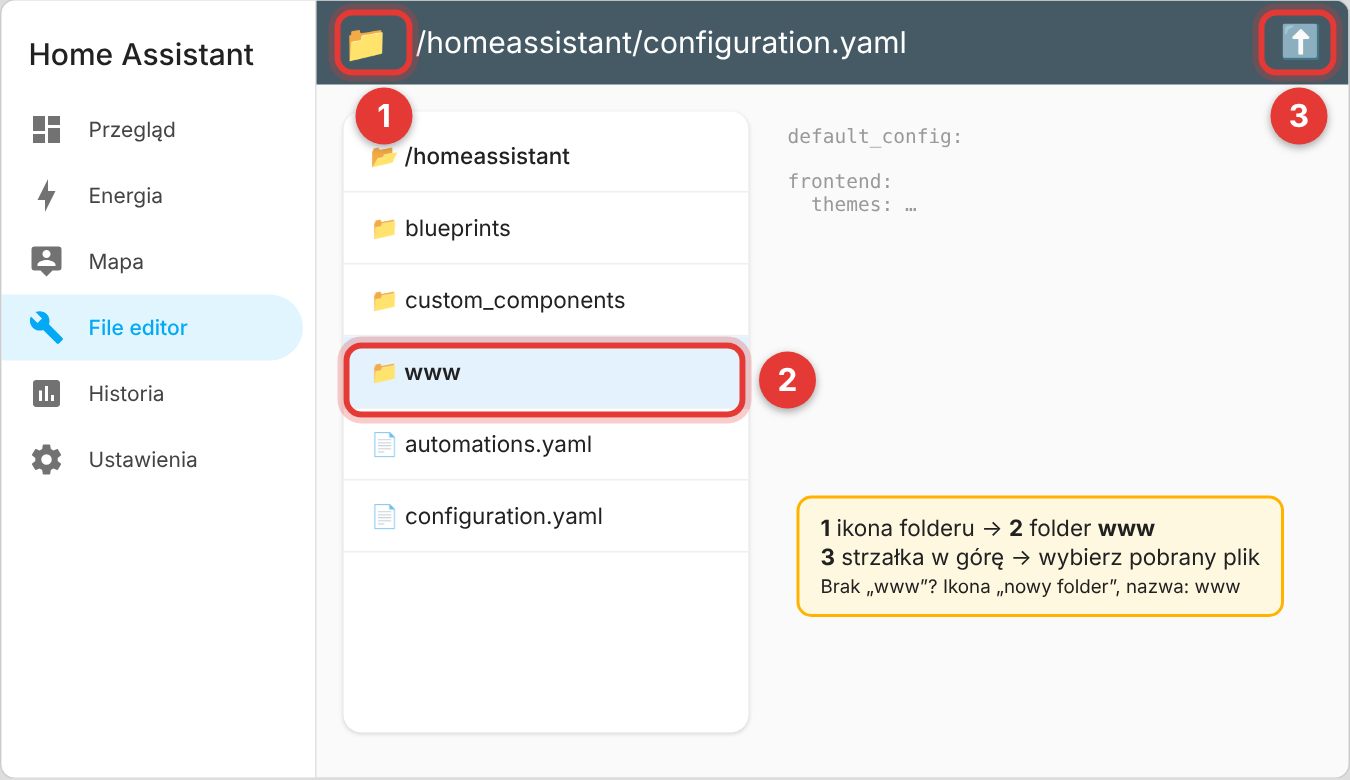
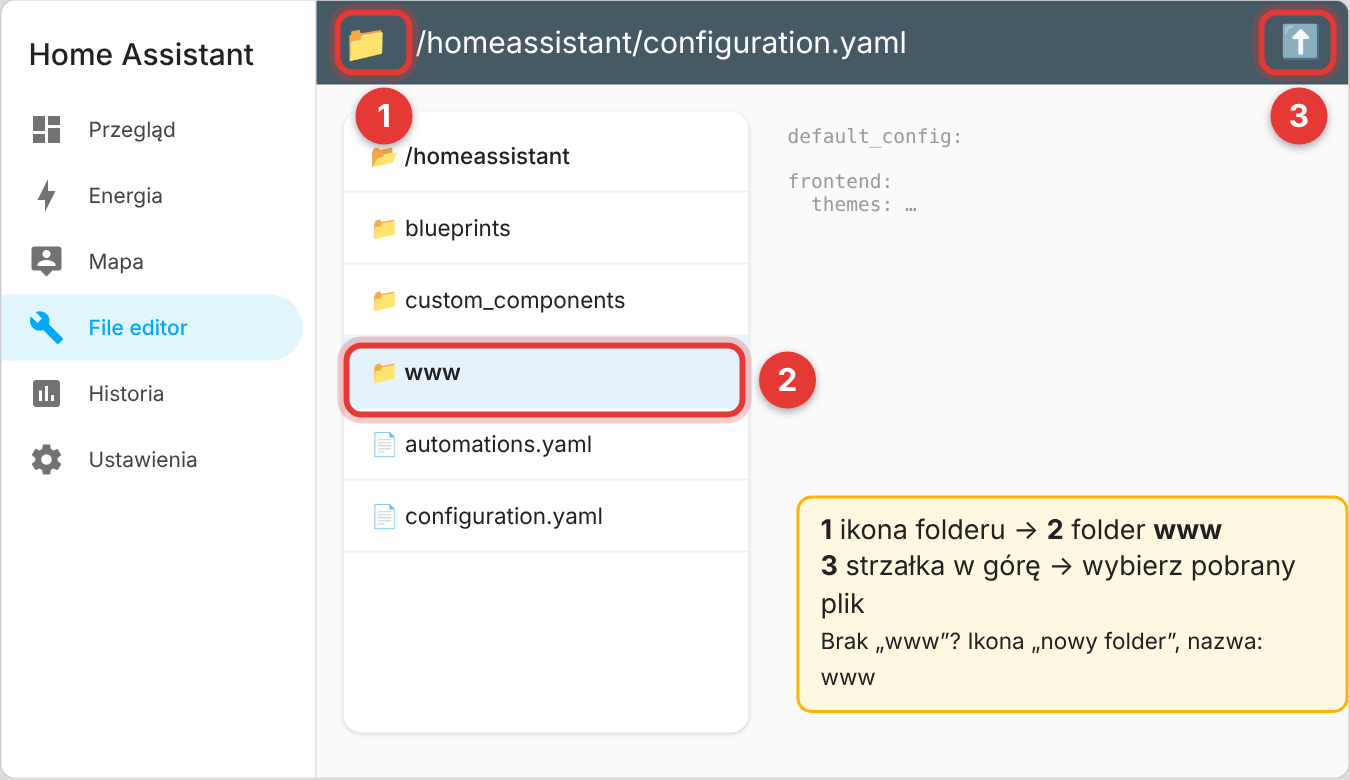
Instrukcje: duże obrazki pod każdym krokiem, nowy krok „Tryb zaawansowany”, większy tekst w dymkach, kreator i edytor w większych zrzutach
Claude-Session: https://claude.ai/code/session_011kdECsj6qXkrucqiniWbdX

Changed region(s): [[0.5911, 0.6154, 1.0, 0.9231]]

diff --git a/README_EN.md b/README_EN.md
@@ -174,11 +174,11 @@ The card shows your day-night blind on a real-looking window. Drag the blind wit
 
 **Step 2.** Click **Open link**, then **Add** when HACS asks to add the repository.
 
-<img src="img/instalacja/hacs-1.png" width="640" alt="Step 2">
+<img src="img/instalacja/hacs-1.png" width="820" alt="Step 2">
 
 **Step 3.** Click **Download** (bottom right), then **Download** again.
 
-<img src="img/instalacja/hacs-2.png" width="640" alt="Step 3">
+<img src="img/instalacja/hacs-2.png" width="820" alt="Step 3">
 
 **Step 4.** Refresh the page: **Ctrl + Shift + R** (on a phone, close and reopen the HA app).
 
@@ -192,10 +192,43 @@ The card shows your day-night blind on a real-looking window. Drag the blind wit
 
 ### Manual
 
-1. Download `roleta-realistyczna.js` from the [latest release](https://github.com/superdarco78/roleta-realistyczna/releases/latest).
-2. Upload it to `/config/www/` (e.g. with the File editor add-on).
-3. **Settings → Dashboards → ⋮ → Resources → Add resource**: `/local/roleta-realistyczna.js`, **JavaScript module**.
-4. Refresh with **Ctrl + Shift + R**.
+Screenshots show the Polish HA interface; the buttons are in the same places in English.
+
+**Step 1. Download the card file**
+
+Open the [latest release](https://github.com/superdarco78/roleta-realistyczna/releases/latest) and click `roleta-realistyczna.js`.
+
+<img src="img/instalacja/krok-1.png" width="820" alt="Step 1">
+
+**Step 2. Upload it to Home Assistant**
+
+Open **File editor**, click the folder icon, go to `www` and upload the file with the up arrow.
+
+<img src="img/instalacja/krok-2.png" width="820" alt="Step 2">
+
+**Step 3. Open Dashboards**
+
+Click **Settings** at the bottom of the left menu, then **Dashboards**.
+
+<img src="img/instalacja/krok-3.png" width="820" alt="Step 3">
+
+**Step 4. Open Resources**
+
+Click the three dots **⋮** top right, then **Resources**.
+
+<img src="img/instalacja/krok-4.png" width="820" alt="Step 4">
+
+**Step 4a. No “Resources”? Turn on Advanced mode**
+
+Click your name at the bottom of the left menu and turn on **Advanced mode**. Then go back to step 4.
+
+<img src="img/instalacja/krok-7.png" width="820" alt="Step 4a">
+
+**Step 5. Add the card as a resource**
+
+Click **Add resource**, type `/local/roleta-realistyczna.js`, choose **JavaScript module** and click **Create**. Then refresh: **Ctrl + Shift + R**.
+
+<img src="img/instalacja/krok-5.png" width="820" alt="Step 5">
 
 ---
 
@@ -203,10 +236,23 @@ The card shows your day-night blind on a real-looking window. Drag the blind wit
 
 Dashboard → pencil (Edit) → **＋ Add card** → type **Roleta** → click the card. The wizard opens by itself:
 
-| 1⃣ Pick the blind | 2⃣ What was detected | 3⃣ Pick a look |
-|:---:|:---:|:---:|
-| <img src="img/kreator-1.png" width="250"> | <img src="img/kreator-2.png" width="250"> | <img src="img/kreator-3.png" width="250"> |
-| Blind groups are listed first. | Motor, contact sensors, weather. Nothing to add. | 6 styles: modern, wood, Scandinavian, dark, walnut, colourful. |
+**1⃣ Pick the blind**
+
+Blind groups (2-sash windows) are listed first.
+
+<img src="img/kreator-1.png" width="480" alt="1⃣ Pick the blind">
+
+**2⃣ See what was detected**
+
+Motor, contact sensors and weather. Nothing to add.
+
+<img src="img/kreator-2.png" width="480" alt="2⃣ See what was detected">
+
+**3⃣ Pick a look**
+
+6 styles: modern, wood, Scandinavian, dark, walnut, colourful.
+
+<img src="img/kreator-3.png" width="480" alt="3⃣ Pick a look">
 
 ---
 
@@ -224,7 +270,7 @@ Dashboard → pencil (Edit) → **＋ Add card** → type **Roleta** → click t
 
 A dashed **“→ 50%”** line shows where the blind is going.
 
-<img src="img/edytor/linia-celu.png" width="420" alt="Target line"> <img src="img/edytor/uchwyty.png" width="360" alt="Handles">
+<img src="img/edytor/linia-celu.png" width="520" alt="Target line"> <img src="img/edytor/uchwyty.png" width="520" alt="Handles">
 
 ---
 
@@ -240,7 +286,7 @@ Settings are grouped in collapsible sections, each with **↺ Restore defaults**
 | ⚙ Advanced | Language, buttons, handles, steps, quick positions, vibration, inverted position, weather source, own background photo. |
 | 🌍 Global | **Save as default** for all blind cards. |
 
-<img src="img/edytor/podglad.png" width="380" alt="Preview"> <img src="img/edytor/kontaktrony.png" width="420" alt="Contact sensors">
+<img src="img/edytor/podglad.png" width="520" alt="Preview"> <img src="img/edytor/kontaktrony.png" width="520" alt="Contact sensors">
 
 ---
 
